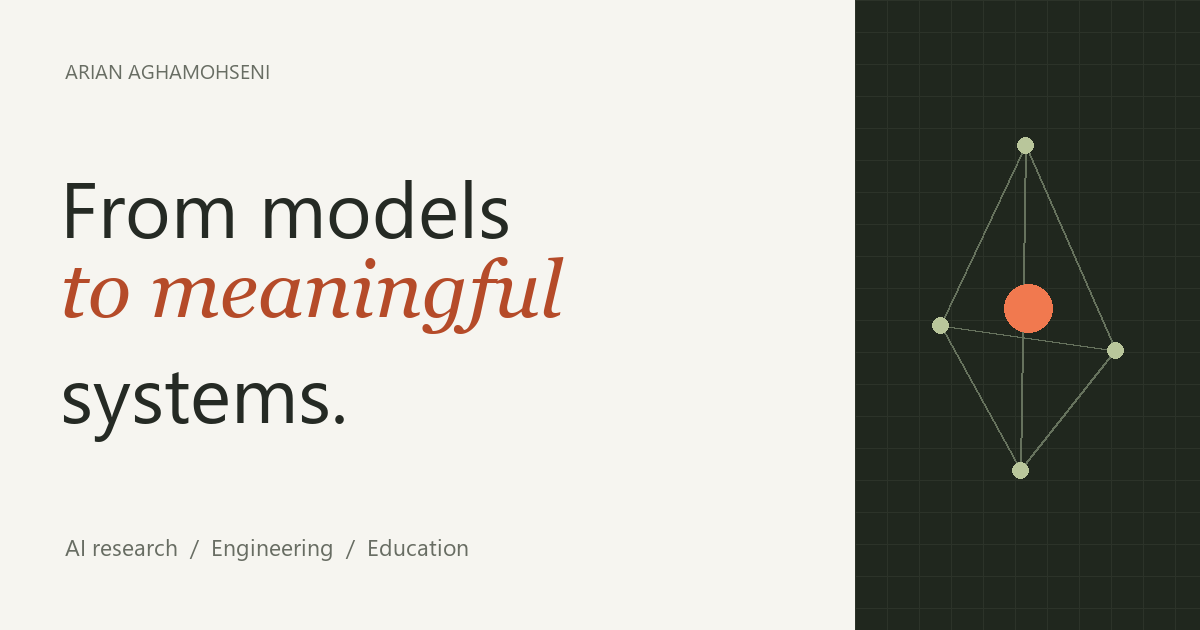
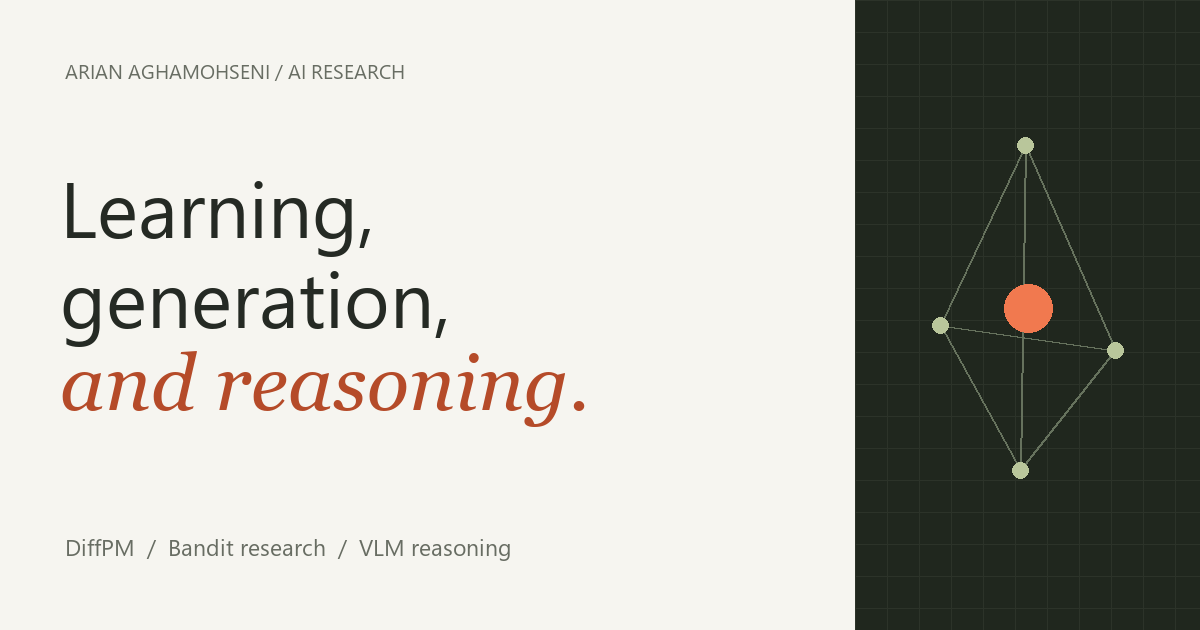
Lead with research and highlight ChiBepoosham and SnappStore roles

diff --git a/index.html b/index.html
@@ -4,13 +4,13 @@
 <meta charset="utf-8">
 <meta name="viewport" content="width=device-width, initial-scale=1">
 <meta name="color-scheme" content="light">
-<title>Arian Aghamohseni — AI Research & Engineering</title>
-<meta name="description" content="Arian Aghamohseni: AI research, applied engineering, and technical education. Generative models, reinforcement learning, probabilistic inference, and practical AI systems.">
+<title>Arian Aghamohseni — AI Research</title>
+<meta name="description" content="Arian Aghamohseni: research in diffusion-based time-series modeling, non-stationary bandits, and vision-language model reasoning. Teaching and applied AI engineering.">
 
 <link rel="canonical" href="https://arianaghamohseni.github.io/">
 <meta property="og:type" content="website">
-<meta property="og:title" content="Arian Aghamohseni — AI Research & Engineering">
-<meta property="og:description" content="Exploring how models learn, reason, and become useful systems. Research, applied AI, and technical education.">
+<meta property="og:title" content="Arian Aghamohseni — AI Research">
+<meta property="og:description" content="Research in generative modeling, sequential decision-making, and VLM reasoning. DiffPM, bandit research, and technical education.">
 <meta property="og:url" content="https://arianaghamohseni.github.io/">
 <meta property="og:image" content="https://arianaghamohseni.github.io/assets/social-card.png">
 <meta name="twitter:card" content="summary_large_image">
@@ -30,7 +30,7 @@
 <a class="wordmark" href="#top" aria-label="Arian Aghamohseni, home">arian<span>.</span></a>
 <button class="menu-toggle" type="button" aria-expanded="false" aria-controls="navigation">Menu <span aria-hidden="true">＋</span></button>
 
-<nav id="navigation" aria-label="Main navigation"><a href="#work">Work</a><a href="#research">Research</a><a href="#teaching">Teaching</a><a href="#about">About</a><a href="#contact">Get in touch <span aria-hidden="true">↗</span></a></nav>
+<nav id="navigation" aria-label="Main navigation"><a href="#research">Research</a><a href="#teaching">Teaching</a><a href="#work">Engineering</a><a href="#about">About</a><a href="#contact">Get in touch <span aria-hidden="true">↗</span></a></nav>
 
 </div>
 </header>
@@ -40,159 +40,72 @@
 <section class="hero shell" aria-labelledby="intro-title">
 
 <div class="hero-copy">
-<p class="eyebrow"><span class="small-line"></span> Arian Aghamohseni · Tehran, Iran</p>
+<p class="eyebrow"><span class="small-line"></span> Arian Aghamohseni · AI researcher</p>
 
-<h1 id="intro-title">From models<br>to <em>meaningful</em><br>systems.</h1>
+<h1 id="intro-title">Learning,<br>generation,<br>and <em>reasoning.</em></h1>
 
-<p class="hero-description">I work across AI research, applied engineering, and technical education—exploring how models learn, reason, and become useful in practice.</p>
+<p class="hero-description">I study generative models, sequential decision-making, and reasoning in vision-language models. My research spans diffusion-based time-series modeling, non-stationary bandits, and multimodal reasoning.</p>
 
-<div class="hero-actions"><a class="button" href="#work">Explore my work <span aria-hidden="true">↓</span></a><a class="text-link" href="https://github.com/ArianAghamohseni">GitHub <span aria-hidden="true">↗</span></a></div>
+<div class="hero-actions"><a class="button" href="#research">Explore my research <span aria-hidden="true">↓</span></a><a class="text-link" href="https://github.com/ArianAghamohseni">GitHub <span aria-hidden="true">↗</span></a></div>
 </div>
 
-<div class="field" role="img" aria-label="A network connecting research, systems, and people">
+<div class="field" role="img" aria-label="A network connecting generative modeling, bandits, and vision-language reasoning">
 <div class="field-grid"></div>
-<span class="field-label">A connected practice</span>
+<span class="field-label">Research directions</span>
 <svg class="network" viewBox="0 0 460 460" aria-hidden="true"><g fill="none" stroke="#555c50" stroke-width="1">
 <path d="M80 270L225 105L365 260L230 360Z"/>
 <path d="M80 270L365 260M225 105L230 360M80 270L230 360M225 105L365 260"/><circle cx="230" cy="230" r="152" stroke-dasharray="3 8"/><circle cx="230" cy="230" r="90" stroke="#343c32"/></g><g fill="#b9c69b"><circle cx="225" cy="105" r="7"/><circle cx="365" cy="260" r="7"/><circle cx="80" cy="270" r="7"/></g><circle cx="230" cy="360" r="7" fill="#f1794f"/><circle cx="230" cy="230" r="24" fill="#f1794f"/>
-<path d="M220 230h20m-10-10v20" stroke="#20271e" stroke-width="1.5"/><g fill="#edf0e4" font-size="12" font-family="monospace"><text x="225" y="81" text-anchor="middle">RESEARCH</text><text x="370" y="290" text-anchor="middle">SYSTEMS</text><text x="75" y="301" text-anchor="middle">LEARNING</text><text x="230" y="390" text-anchor="middle">PEOPLE</text></g></svg>
+<path d="M220 230h20m-10-10v20" stroke="#20271e" stroke-width="1.5"/><g fill="#edf0e4" font-size="12" font-family="monospace"><text x="225" y="81" text-anchor="middle">DIFFPM</text><text x="370" y="290" text-anchor="middle">BANDITS</text><text x="75" y="301" text-anchor="middle">VLM REASONING</text><text x="230" y="390" text-anchor="middle">INFERENCE</text></g></svg>
 
-<p class="field-footer"><span>Ideas ↔ implementation</span><span>01—03</span></p>
+<p class="field-footer"><span>Models, decisions &amp; reasoning</span><span>01—03</span></p>
 </div>
 
 </section>
 
 <div class="focus-strip">
-<div class="shell"><span>Generative models</span><span>Reinforcement learning</span><span>Applied AI</span><span>Technical education</span></div>
+<div class="shell"><span>Generative models</span><span>Sequential decisions</span><span>VLM reasoning</span><span>Probabilistic inference</span></div>
 </div>
 
-<section class="section shell" id="work" aria-labelledby="work-title">
-<div class="section-heading">
-<div>
-<p class="eyebrow">01 / Practice</p>
 
-<h2 id="work-title">Research meets<br>the real world.</h2>
-</div>
-
-<p>My work spans the models themselves, the systems around them, and the people learning to build with them.</p>
-</div>
-
-<div class="practice-grid">
-<article class="practice-card"><span class="card-number">01</span>
-<h3>AI research</h3>
-
-<p>Generative modeling, reinforcement learning, and probabilistic inference, with research experience at Sharif University of Technology and Amirkabir University of Technology.</p>
-<a class="text-link" href="#research">Selected research <span aria-hidden="true">↓</span></a></article>
-
-<article class="practice-card"><span class="card-number">02</span>
-<h3>Applied engineering</h3>
-
-<p>Connecting models to practical workflows: speech and language tools, multimodal systems, automation, and the infrastructure needed to run them.</p>
-<a class="text-link" href="https://github.com/ArianAghamohseni">Browse my GitHub <span aria-hidden="true">↗</span></a></article>
-
-<article class="practice-card"><span class="card-number">03</span>
-<h3>Technical education</h3>
-
-<p>Working on Quera bootcamp programs across Agentic AI, MLOps, and DevOps—from learning materials and projects to mentoring workflows and program operations.</p>
-<a class="text-link" href="#teaching">Teaching & programs <span aria-hidden="true">↓</span></a></article>
-</div>
-
-<div class="repo-row">
-<div>
-<p class="eyebrow">Selected public code</p>
-
-<h3>DiffPM</h3>
-
-<p>Diffusion-based generative modeling for multivariate time series.</p>
-</div>
-<a class="round-link" href="https://github.com/ArianAghamohseni/DiffPM" aria-label="View the DiffPM GitHub repository">↗</a></div>
-</section>
 
 <section class="research-section" id="research" aria-labelledby="research-title">
 <div class="shell section">
 <div class="section-heading">
 <div>
-<p class="eyebrow">02 / Research</p>
+<p class="eyebrow">01 / Selected research</p>
 
-<h2 id="research-title">Learning, generation,<br>and inference.</h2>
+<h2 id="research-title">Three directions.<br>One research practice.</h2>
 </div>
 
-<p>I’m interested in how learning and inference fit together: from generative models and learned proposals to reinforcement learning for reasoning.</p>
+<p>My research connects generative modeling, learning under uncertainty, and multimodal reasoning, with research experience at Sharif University of Technology and Amirkabir University of Technology.</p>
 </div>
 
-<div class="interest-tags"><span>Probabilistic programming</span><span>Bayesian inference</span><span>Diffusion models</span><span>Sequential Monte Carlo</span><span>RL for reasoning</span><span>Simulation-based inference</span></div>
+<div class="interest-tags"><span>Diffusion models</span><span>Time-series generation</span><span>Non-stationary bandits</span><span>Regret analysis</span><span>Vision-language models</span><span>Multimodal reasoning</span></div>
 
 <div class="research-list">
 <article class="research-item">
-<div class="research-meta">Started September 2025<br><span>Sharif University of Technology — RIML Lab</span></div>
-
-<div>
-<h3>Text-to-Image Generative Models</h3>
-
-<p>We study inference-time and prompt/embedding optimization for text-to-image diffusion models. Our current focus includes defining losses aligned with conditioned Stable Diffusion objectives and a reward-driven prompt-embedding optimization procedure that couples principled reward selection with exploration to improve visual/textual alignment.</p>
-
-<p class="supervisors">Supervisors: Dr. Mohammad Hossein Rohban, Dr. Mahdieh Soleymani Baghshah</p>
-</div>
+  <div class="research-meta">Nov 2024–Oct 2025<br><span>Sharif University of Technology — RIML Lab</span></div>
+  <div>
+    <h3>DiffPM — Diffusion-based time-series modeling</h3>
+    <p>Diffusion-based generation of multivariate time series, separating low-frequency trends from high-frequency residuals and combining window-level samples into coherent sequences. This work explores generative modeling for time-series synthesis, representation learning, and downstream forecasting.</p>
+    <p class="supervisors">Supervisors: Dr. Mohammad Hossein Rohban, Dr. Babak Khalaj</p>
+    <a class="text-link" href="https://github.com/ArianAghamohseni/DiffPM">Explore DiffPM <span aria-hidden="true">↗</span></a>
+  </div>
 </article>
-
 <article class="research-item">
-<div class="research-meta">Started September 2025<br><span>Sharif University of Technology — MLL Lab</span></div>
-
-<div>
-<h3>Reinforcement Learning for Reasoning in LLMs</h3>
-
-<p>We develop an RL-based optimization layer that adapts a model&#x27;s reasoning policy during inference, trading off exploration depth and decisive steps via a shaped reward. The layer tunes sampling temperature, halting criteria, and verifier thresholds to minimize expected reasoning cost at a target accuracy. Early results improve pass@k under a fixed budget and reduce compute.</p>
-
-<p class="supervisors">Supervisor: Dr. Mahdieh Soleymani Baghshah</p>
-</div>
+  <div class="research-meta">Bandit researcher<br><span>Sharif University of Technology</span></div>
+  <div>
+    <h3>Non-stationary bandits</h3>
+    <p>I work on regret analysis for non-stationary linear bandits, studying how changing environments affect exploration, elimination, and sequential decision-making. The focus is on understanding the theoretical behavior of learning algorithms under distributional drift.</p>
+    <p class="supervisors">Supervisors: Dr. Yasin Abbasi, Prof. András György</p>
+  </div>
 </article>
-
 <article class="research-item">
-<div class="research-meta">Started May 2025<br><span>Sharif University of Technology</span></div>
-
-<div>
-<h3>Non-Stationary Bandit Regret Analysis</h3>
-
-<p>We analyze non-stationary linear bandits using geometric intuition and a four-way partition (combinatorial vs. continuous; full-space vs. restricted) to bound the first stage of the META algorithm. We derive new elimination criteria and show that, under mild drift assumptions, the algorithm attains regret rates comparable to the stationary case.</p>
-
-<p class="supervisors">Supervisors: Dr. Yasin Abbasi, Prof. András György</p>
-</div>
-</article>
-
-<article class="research-item">
-<div class="research-meta">Nov 2024–Oct 2025<br><span>Sharif University of Technology — RIML Lab</span></div>
-
-<div>
-<h3>Multivariate Probabilistic Time-Series Representation Learning (DiffPM)</h3>
-
-<p>We developed DiffPM, a diffusion-based framework that factorizes multivariate sequences into low-frequency trends and high-frequency residuals, trains window-conditioned denoisers with position-aware stitching, and yields calibrated probabilistic embeddings supporting whole-series synthesis, reconstruction, and downstream forecasting with strong temporal coherence and efficient sampling.</p>
-
-<p class="supervisors">Supervisors: Dr. Mohammad Hossein Rohban, Dr. Babak Khalaj</p>
-</div>
-</article>
-
-<article class="research-item">
-<div class="research-meta">Apr 2025–Oct 2025<br><span>Amirkabir University of Technology (Tehran Polytechnic)</span></div>
-
-<div>
-<h3>Representation Learning with Diffusion Models</h3>
-
-<p>We use conditioned diffusion models for transferable representation learning: we integrate classifier-free guidance into the conditioned process and shape the noise schedule/variance to extract disentangled feature maps, which are then transferred to a fine-tuned ResNet for image classification.</p>
-
-<p class="supervisors">Supervisor: Dr. Ahmad Nickabadi</p>
-</div>
-</article>
-
-<article class="research-item">
-<div class="research-meta">Sep 2024–Mar 2025<br><span>Amirkabir University of Technology (Tehran Polytechnic)</span></div>
-
-<div>
-<h3>Generative Models (Diffusion &amp; DiTs)</h3>
-
-<p>We improved sample quality and efficiency for diffusion models and Diffusion Transformers by combining token merging and caching with VAE-inspired latent regularization, achieving better FID alongside smoother latent space trajectories and lower compute.</p>
-
-<p class="supervisors">Supervisor: Dr. Ahmad Nickabadi</p>
-</div>
+  <div class="research-meta">Multimodal research<br><span>Vision-language models</span></div>
+  <div>
+    <h3>VLM reasoning</h3>
+    <p>Research into reasoning in vision-language models: how visual evidence informs multi-step reasoning, and how to evaluate the resulting behavior. I’m interested in the connection between visual understanding and the reasoning processes of multimodal models.</p>
+  </div>
 </article>
 </div>
 
@@ -239,7 +152,7 @@
 
 <section class="section shell teaching" id="teaching" aria-labelledby="teaching-title">
 <div>
-<p class="eyebrow">03 / Teaching & programs</p>
+<p class="eyebrow">02 / Teaching & programs</p>
 
 <h2 id="teaching-title">Make the work<br><em>understandable.</em></h2>
 
@@ -271,6 +184,29 @@
 </div>
 </article>
 </div>
+</section>
+
+<section class="section shell" id="work" aria-labelledby="work-title">
+  <div class="section-heading">
+    <div>
+      <p class="eyebrow">03 / Engineering & leadership</p>
+      <h2 id="work-title">Building products.<br>Leading data &amp; AI.</h2>
+    </div>
+    <p>Alongside my research, I lead product engineering, data, and applied AI work.</p>
+  </div>
+  <div class="practice-grid roles">
+    <article class="practice-card">
+      <span class="card-number">01 / Founder &amp; CTO</span>
+      <h3>ChiBepoosham</h3>
+      <p>An AI-powered personal styling platform for outfit recommendations, digital wardrobe management, and virtual try-on. I lead its technical direction and product engineering, bringing AI capabilities into a consumer product.</p>
+      <a class="text-link" href="https://chibepoosham.app/">Explore ChiBepoosham <span aria-hidden="true">↗</span></a>
+    </article>
+    <article class="practice-card">
+      <span class="card-number">02 / Data &amp; AI Lead</span>
+      <h3>SnappStore</h3>
+      <p>I lead Data &amp; AI at SnappStore, connecting data work and AI development with product and business needs.</p>
+    </article>
+  </div>
 </section>
 
 <section class="about-section" id="about" aria-labelledby="about-title">

diff --git a/styles.css b/styles.css
@@ -849,3 +849,13 @@ footer .wordmark {
   .menu-toggle { min-height: 44px; }
   nav a { display: inline-flex; align-items: center; min-height: 44px; }
 }
+
+/* Two professional roles, below research and teaching. */
+.practice-grid.roles {
+  grid-template-columns: repeat(2, minmax(0, 1fr));
+}
+.roles .practice-card h3 { font-size: 24px; }
+.research-item .text-link { margin-top: 16px; }
+@media (max-width: 720px) {
+  .practice-grid.roles { grid-template-columns: 1fr; }
+}

diff --git a/README.md b/README.md
@@ -18,7 +18,8 @@ Open http://localhost:8088/. No package installation or build step is required.
 - `assets/`: favicon and social preview image.
 - `sitemap.xml`: update `lastmod` when publishing a substantive revision.
 
-Research entries and manuscript statuses were retained from the prior portfolio.
+The selected research section highlights DiffPM, bandit research, and VLM reasoning.
+Manuscript statuses were retained from the prior portfolio.
 Confirm new affiliations, publication decisions, author lists, and results with
 Arian before changing these claims. Entries with only a start date do not assert
 an ongoing institutional appointment.
